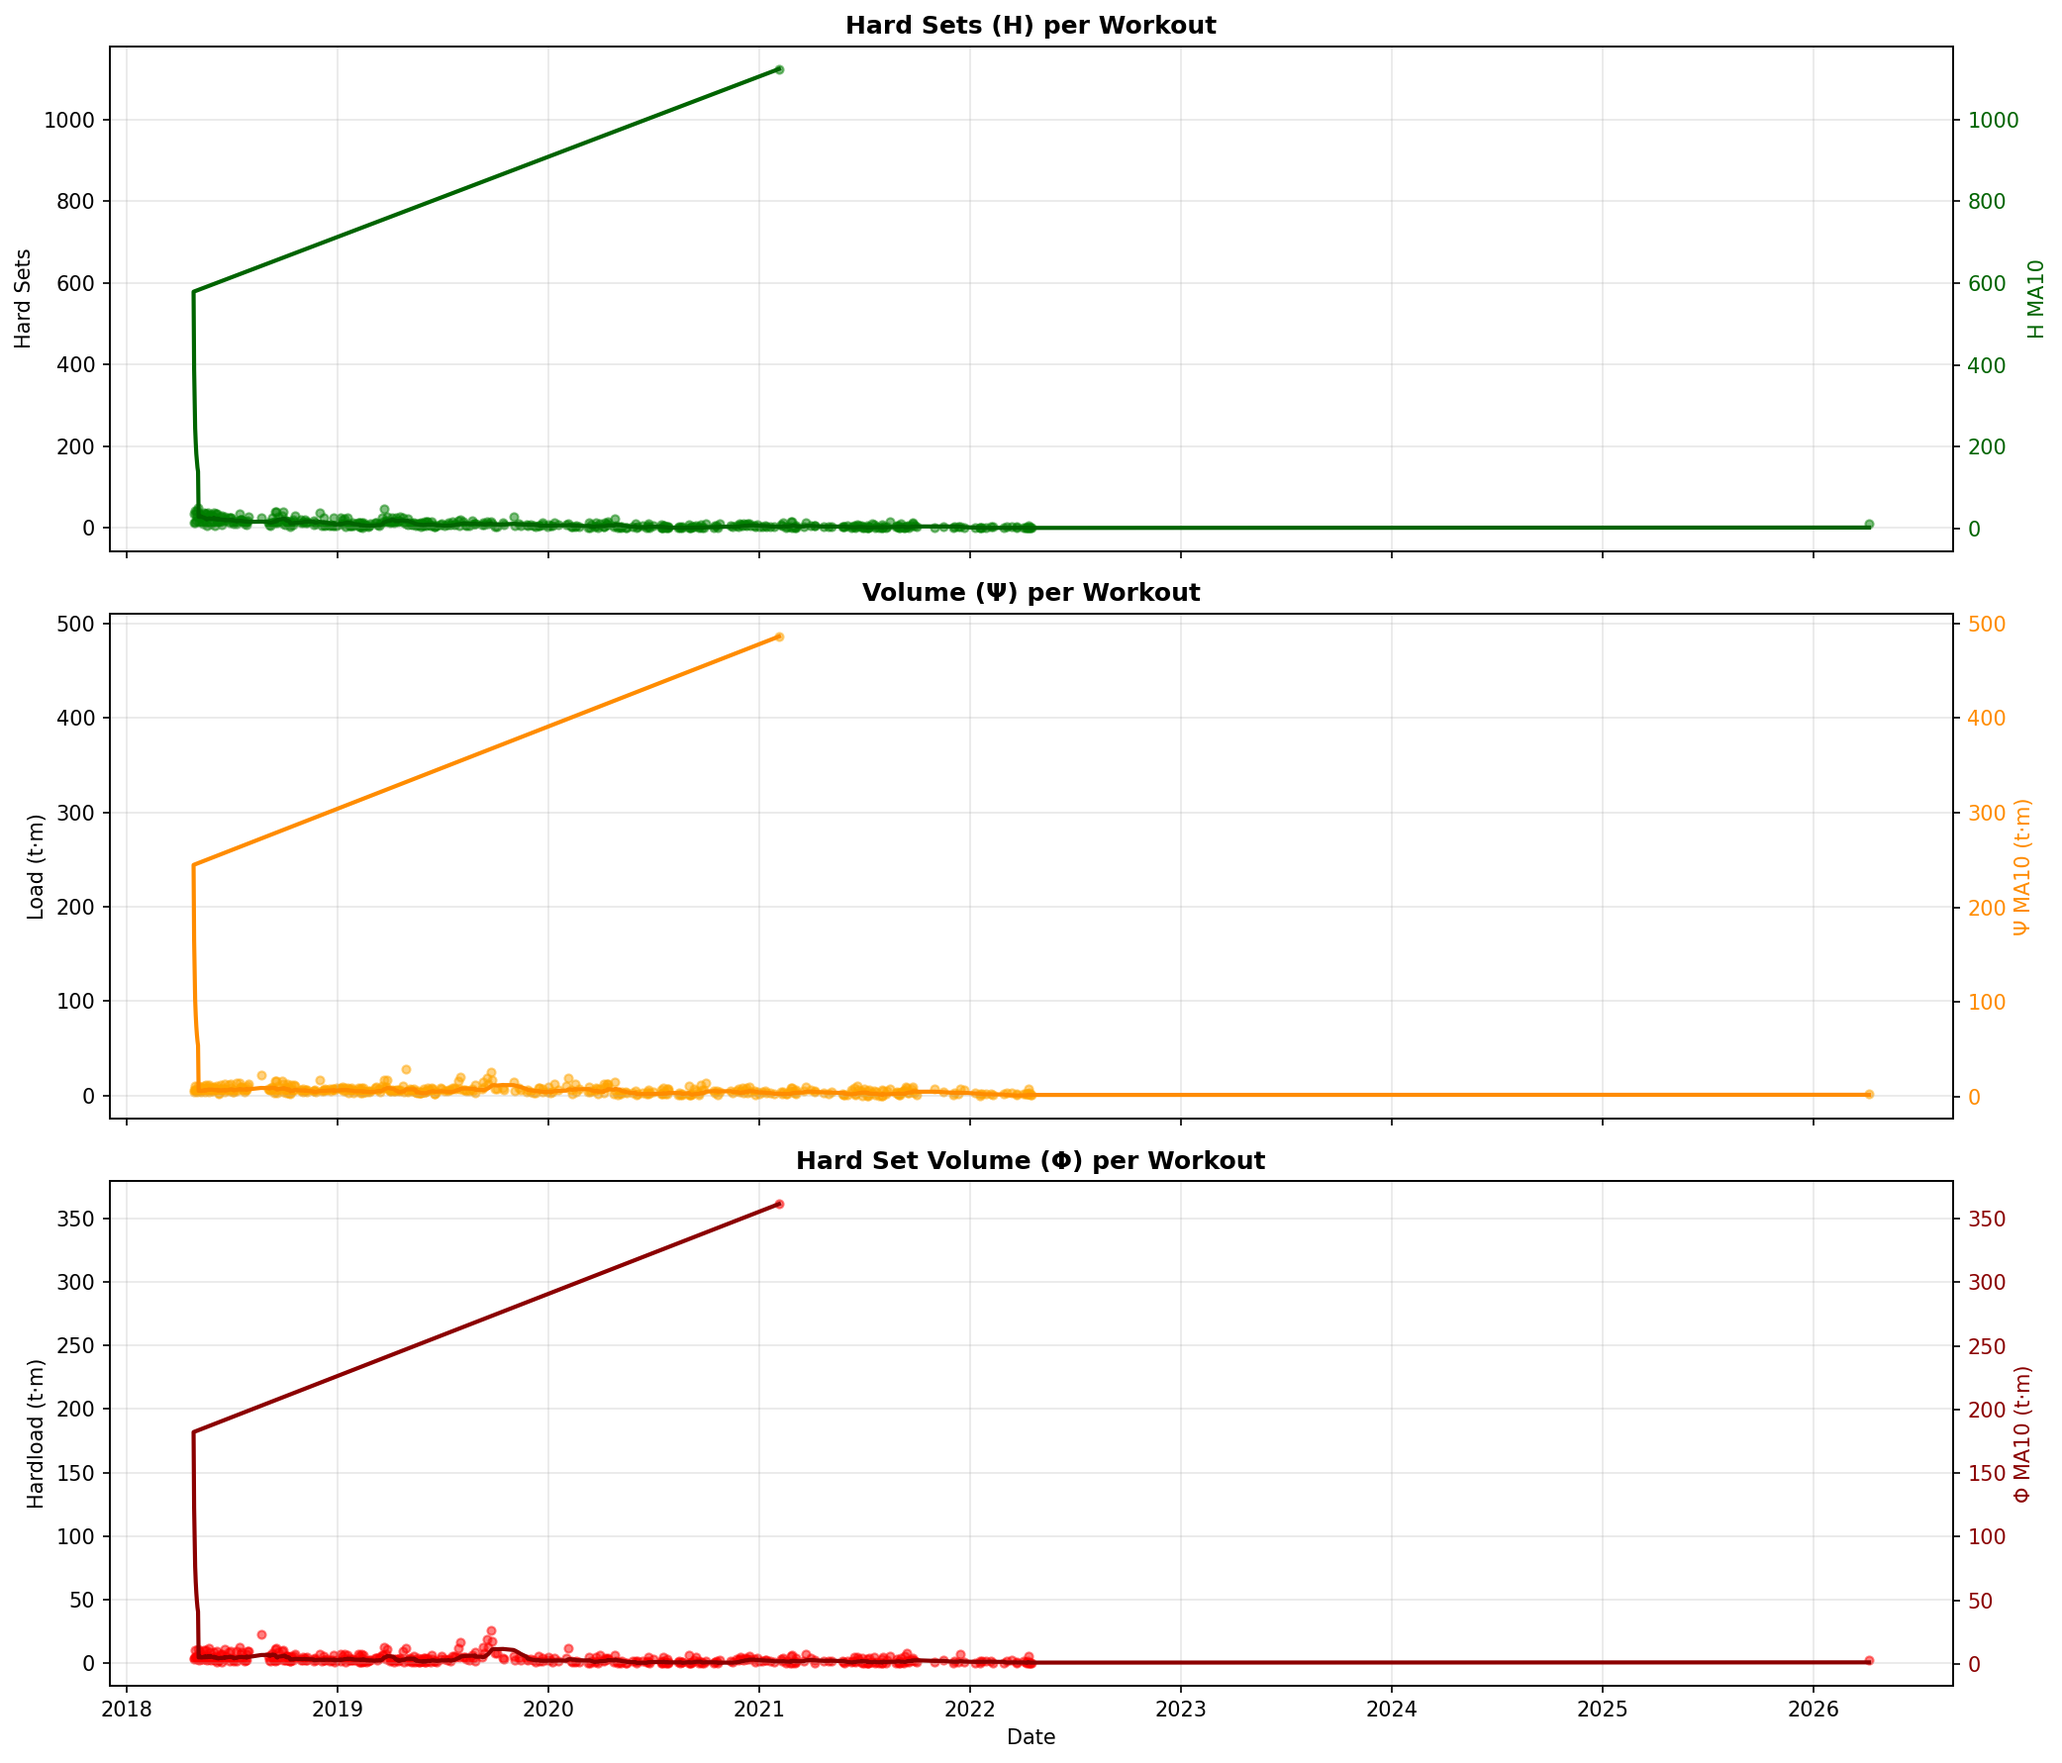
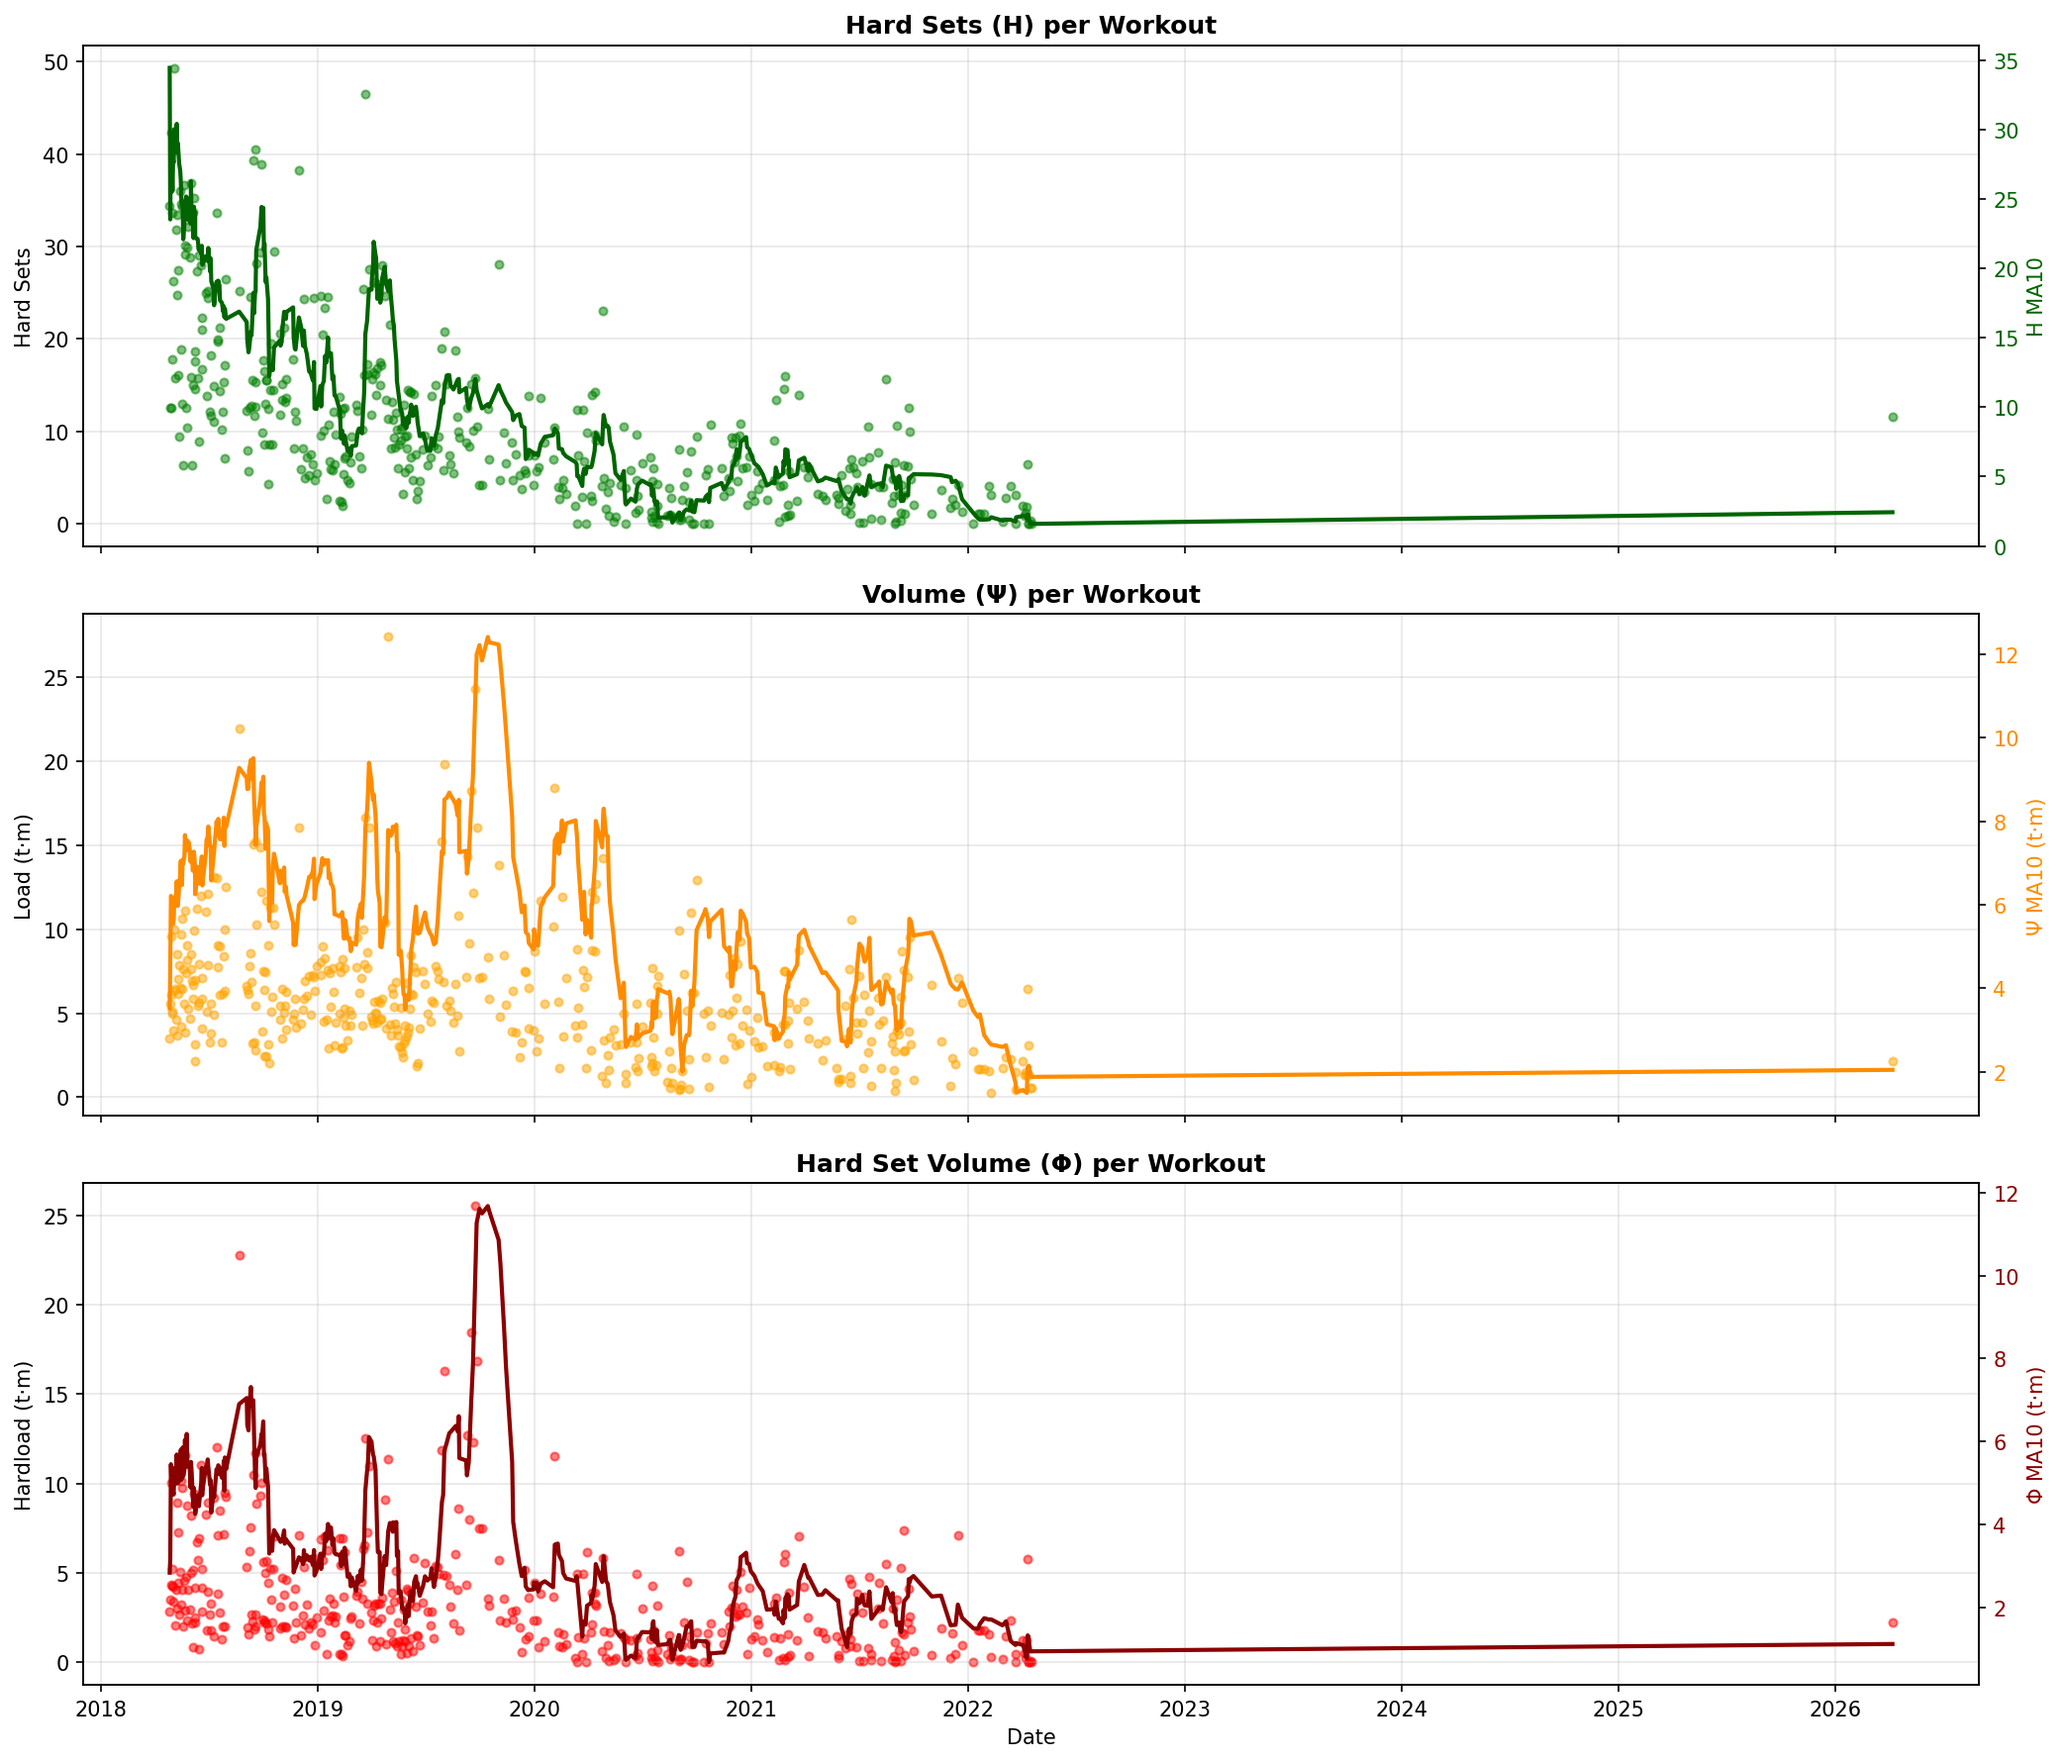
fix: filter outliers from light weight high rep sets

diff --git a/src/biovector/__main__.py b/src/biovector/__main__.py
@@ -302,6 +302,22 @@ class Main():
         print(f"✓ reports/main_lifts.png")
 
         # Volume trends - discrete values with MA10 on secondary axis
+        # Filter outliers: remove workouts with extreme load from light weights
+        filtered_workouts = []
+        for w in workouts:
+            # Skip if load > 3 std above mean (likely light weight high rep outlier)
+            if w["load"] > 0:
+                filtered_workouts.append(w)
+        
+        if filtered_workouts:
+            loads_for_filter = [w["load"] for w in filtered_workouts]
+            mean_load = np.mean(loads_for_filter)
+            std_load = np.std(loads_for_filter)
+            threshold = mean_load + 3 * std_load
+            filtered_workouts = [w for w in filtered_workouts if w["load"] < threshold]
+        
+        workouts = filtered_workouts
+        
         fig, axes = plt.subplots(3, 1, figsize=(14, 12), sharex=True)
         
         dates = np.array([w["date"] for w in workouts])
